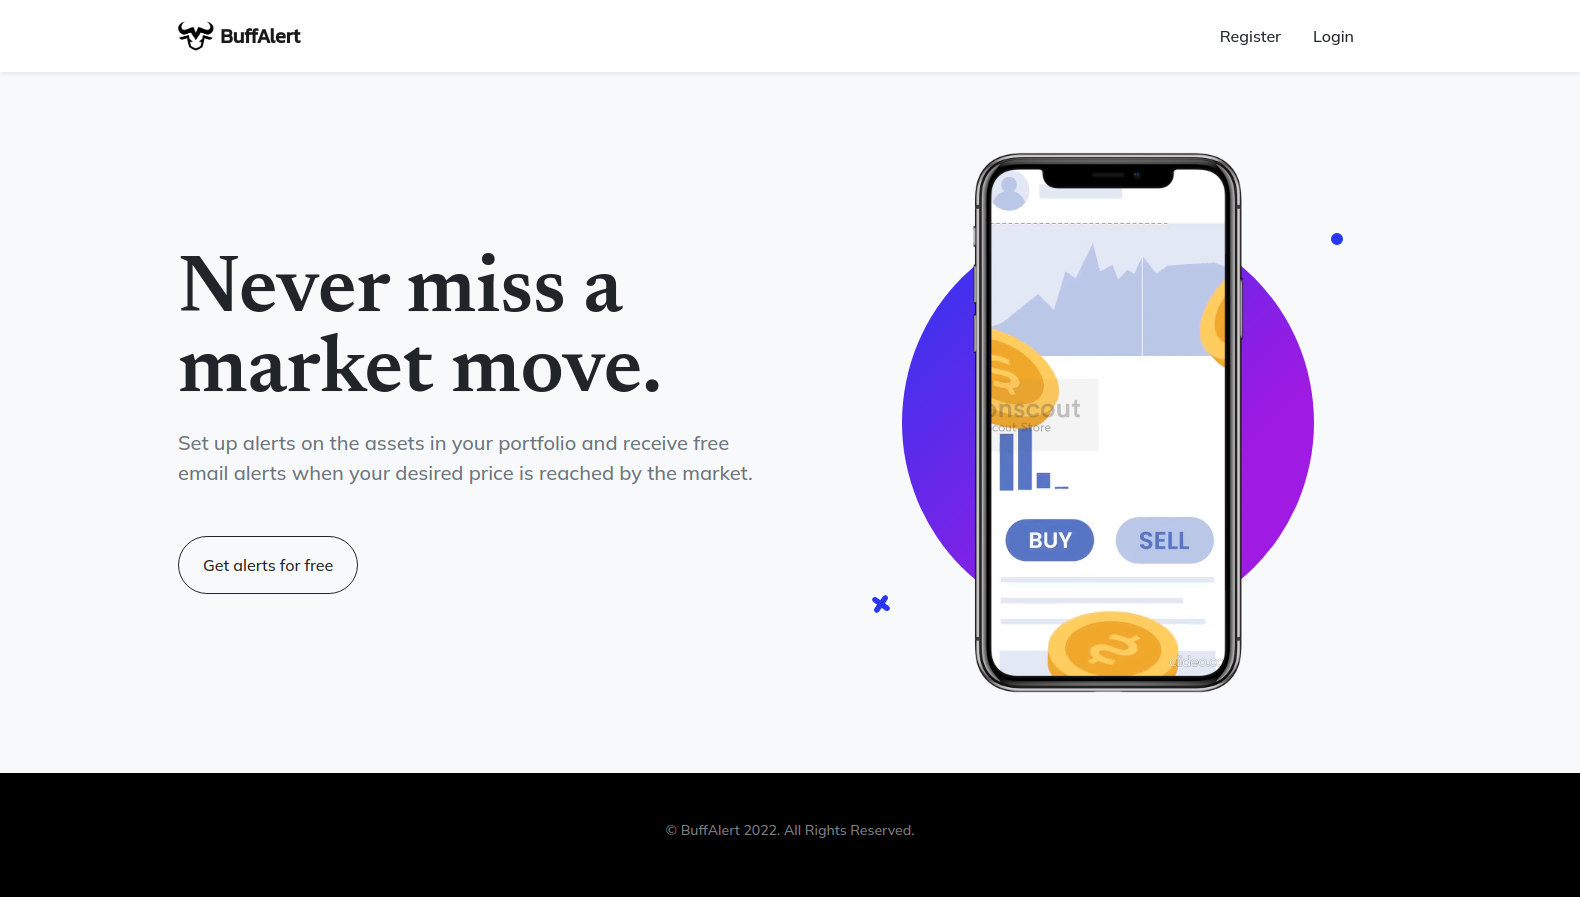
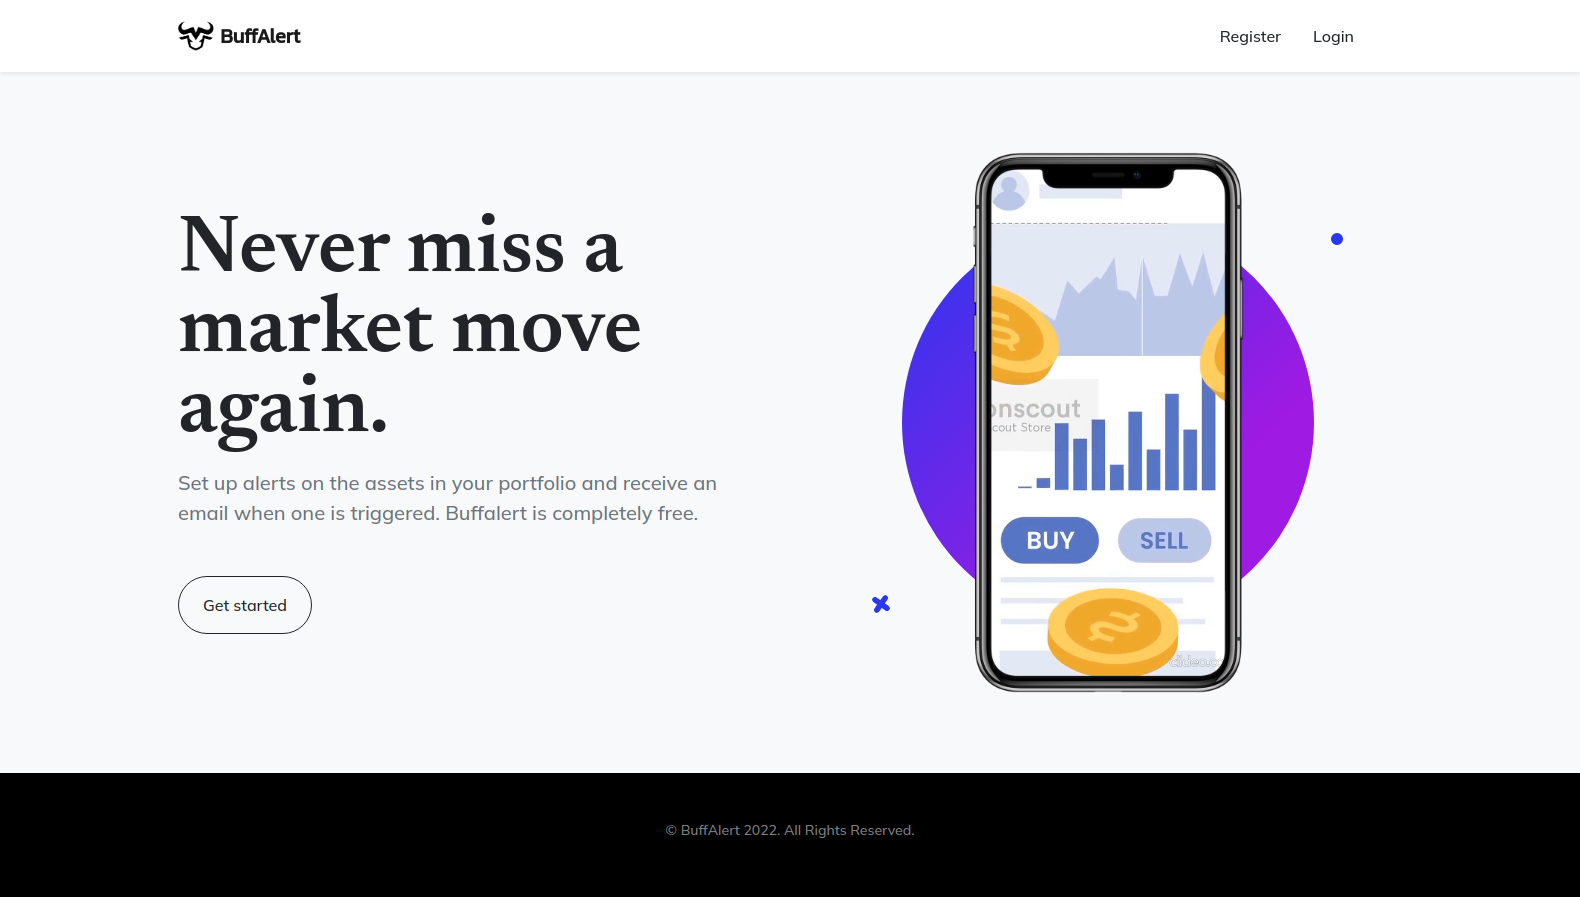
Edited README.md

Changed region(s): [[0.093, 0.2183, 0.4652, 0.5924], [0.6203, 0.2806, 0.7753, 0.7795], [0.1241, 0.6236, 0.2171, 0.686]]

diff --git a/templates/index.html b/templates/index.html
@@ -11,10 +11,10 @@
             <div class="col-lg-6">
                 <!-- Mashead text and app badges-->
                 <div class="mb-5 mb-lg-0 text-center text-lg-start">
-                    <h1 class="display-1 lh-1 mb-3">Never miss a market move.</h1>
-                    <p class="lead fw-normal text-muted mb-5">Set up alerts on the assets in your portfolio and receive free email alerts when your desired price is reached by the market.</p>
+                    <h1 class="display-1 lh-1 mb-3">Never miss a market move again.</h1>
+                    <p class="lead fw-normal text-muted mb-5">Set up alerts on the assets in your portfolio and receive an email when one is triggered. Buffalert is completely free.</p>
                     <div class="d-flex flex-column flex-lg-row align-items-center">
-                        <a class="btn btn-outline-dark py-3 px-4 rounded-pill" href="{{url_for('register')}}">Get alerts for free</a>
+                        <a class="btn btn-outline-dark py-3 px-4 rounded-pill" href="{{url_for('register')}}">Get started</a>
                     </div>
                 </div>
             </div>

diff --git a/README.md b/README.md
@@ -1,8 +1,11 @@
 # BuffAlert
 
-**BuffAlert allows users to set stock alerts and receive free email alerts when the price they are monitoring is reached.** 
+**BuffAlert allows users to set stock alerts and receive free email when the price they are monitoring is reached.** 
 It works using [cron](https://edouardproust.dev/blog/python-deploy-a-cron-job-on-heroku_8) for the automation part and [iexcloud API](https://iexcloud.io/docs/) for the quote. 
 Each user must subscribe to an iexcloud account and get an personal API key in order not to exceed the limit of requests of the Free plan (all the steps to do so are clearly explained to the user).
+
+➡ **[Live demo](https://buffalert.xyz)**<br/>
+➡ **Video demo** (coming soon)
 
 ![BuffAlert preview](static/img/screenshot.png)
 
@@ -26,7 +29,7 @@ calendar
 
 - **Add more assets:** At the moment, BuffAlert works with US stocks only. The next release will allow user to set alerts on commodities, currencies (forex) and crypto-currencies.
 - **Password recovery:** Add the possibility for the user to reset his/her password by sending a email containing a verification token.
-- **Simultaneous alert checks on cronjob:** At the moment the alerts checking is made one alert at a time. If the users amount increases a lot, the checking launched every hour by the cronjob will be extremely long. This releases is intended to make the cronjob perform each alert checking simultaneously. Which is possible due to the fact each user has his/her own API key,, so each request will be separated.
+- **Simultaneous alert checks on cronjob:** At the moment the checking of alerts is done one alert at a time. If the number of users becomes high, the check launched every hour by the cronjob will be very long. This version is intended to make cronjob perform each alert check simultaneously. This is possible because each user has his own API key, so each request will be separate.
 
 ## Development
 
@@ -68,18 +71,27 @@ python3 -c 'from models import User; User.create("test@test.com", "test")'
 
 We will use [Heroku](https://www.heroku.com/) to deploy the app.
 
-1. ENsure that in `config.py`, `DEV_MODE` is on `False`
+1. Ensure that in `config.py`, `DEV_MODE` is on `False`.
 
 2. Create a repository on Heroku
 ```bash
-heroku create buffalert
+heroku create <app_name>
 ```
 3. Add a Buildpack for Python:
 ```bash
-heroku buildpacks:set heroku/python -a buffalert
+heroku buildpacks:set heroku/python -a <app_name>
 ```
 
-4. Set database ([full tuto](https://roytuts.com/how-to-deploy-python-flask-mysql-based-application-in-heroku-cloud/))
+4. Push code to heroku
+```bash
+git init
+heroku git:remote -a <app_name>
+git add .
+git commit -m "First commit"
+git push -u heroku master # or: `git push heroku <branch_name>:master`
+```
+
+5. Set database ([full tuto](https://roytuts.com/how-to-deploy-python-flask-mysql-based-application-in-heroku-cloud/))
 ```bash
 # Add JawsDB addon
 heroku addons:create jawsdb
@@ -92,26 +104,26 @@ heroku config:set DB_USER_PASSWORD={password}
 heroku config:set DB_HOST={host}
 ```
 
-5. Create tables
+6. Create tables
 - Use this command with the previous credentials:
 ```bash
 mysql -h {host} -u {user} -p # and enter {password} when prompted
 ```
-- Copy in the terminal the content of the `cli/db/buffalert.sql` file.
+- In the terminal, past the content of the `cli/db/buffalert.sql` file.
 - Verify database:
 ```
 mysql> SHOW DATABASES;
 +--------------------+
 | Database           |
 +--------------------+
-| f3e4751rfr833bas   |
+| abc123def456ghi7   |
 | information_schema |
 +--------------------+
-mysql> USE f3e4751rfr833bas;
+mysql> USE abc123def456ghi7;
 Database changed
 mysql> SHOW TABLES;
 +----------------------------+
-| Tables_in_f3e4751rfr833bas |
+| Tables_in_abc123def456ghi7 |
 +----------------------------+
 | alert                      |
 | stock                      |
@@ -120,7 +132,7 @@ mysql> SHOW TABLES;
 +----------------------------+
 ```
 
-6. Set emails with Mailgun
+7. Set emails with Mailgun
 - Register a domain for 1$ on [Namecheap](https://www.namecheap.com/domains/).
 - Create an account on [Mailgun](https://login.mailgun.com/login/) (don't use Heroku's Mailgun addon). Then go to [Upgrade](https://app.mailgun.com/app/account/mailgun/upgrade) page > Choose the "Foundation Trial" plan (bottom of the page). Enter your credit card details (Pro-tip: always use a *single-use* virtual card to pay online).
 - On Mailgun, go to the [Domains](https://app.mailgun.com/app/sending/domains) page > Click "Add New Domain" button. Enter the domain ou just registered on Namecheap.
@@ -133,15 +145,6 @@ heroku config:set MAILGUN_PASSWORD={password}
 ```
 - On the same page, click on "DNS records" tab. In Namecheap [Domain List](https://ap.www.namecheap.com/domains/list/) page > click on "Manage" button for your domain > Click on "Advanced DNS" tab. Copy/past here all the DNS records from Mailgun. Check the DNS propagation with tools like [this one](https://dnschecker.org/).
 
-7. Push code to heroku
-```bash
-git init
-heroku git:remote -a buffalert
-git add .
-git commit -m "First commit"
-git push -u heroku master # or: `git push heroku <branch_name>:master`
-```
-
 8. Launch flask app and cronjob (set [dynos](https://devcenter.heroku.com/articles/heroku-cli-commands#heroku-ps-type-type))
 ```bash
 # These commands activate the tasks listed in `Procfile` file.
@@ -151,7 +154,13 @@ heroku ps:scale web=1
 heroku ps:scale clock=1
 ```
 
-9. (Optionnal) Set your domain on Heroku: 
+9. Visit the app: 
+```bash
+heroku info -s | grep web_url | cut -d= -f2 
+# And click the link ;)
+```
+
+10. (Optionnal) Set a domain name and add SSL encryption 
 - Follow [this tutorial](https://devcenter.heroku.com/articles/custom-domains)
 - Set up SSL using [Cloudflare](https://dash.cloudflare.com/login/): Go to "SSL/TLS" page > Choose "Flexible" encryption mode. Then go to "Edge Certificates" page > In the "Edge Certificates box, follow the the instructions to add the TXT records (in "DNS" page). The Status should change to "Active" automatically after a few minutes. In "Edge Certificates" check "Always Use HTTPS" and "Automatic HTTPS Rewrites".
 
@@ -161,15 +170,14 @@ heroku ps:scale clock=1
 Localy using CLI:
 ```bash
 mysql -u <username> -p
-mysql> USE buffalert <...>; # Complete the statement with any action you need
 # Full MySQL commands list: www.interviewbit.com/blog/mysql-commands
 ```
 
-Localy, using PhpMyAdmin:
+Localy using GUI:
 1. [Install PhpMyAdmin](https://www.linuxshelltips.com/install-phpmyadmin-in-linux/)
 2. Go to http://localhost/phpmyadmin
 
-On Heroku using CLI:
+Online (Heroku) using CLI:
 ```bash
 heroku config | grep DB
 # DB:               abc123
@@ -181,6 +189,14 @@ mysql -h {DB_HOST} -u {DB_USER} -p # and enter {DB_USER_PASSWORD} when prompted
 # Then navigate and do queries in the database: www.interviewbit.com/blog/mysql-commands
 ```
 
+Online using GUI:
+```bash
+# Install MySQL Workbench
+sudo snap install mysql-workbench-community
+# Then add a new connexion with the heroku DBJaws credentials.
+# Get them with this command:
+heroku config | grep DB
+```
 
 ## Tips
 
